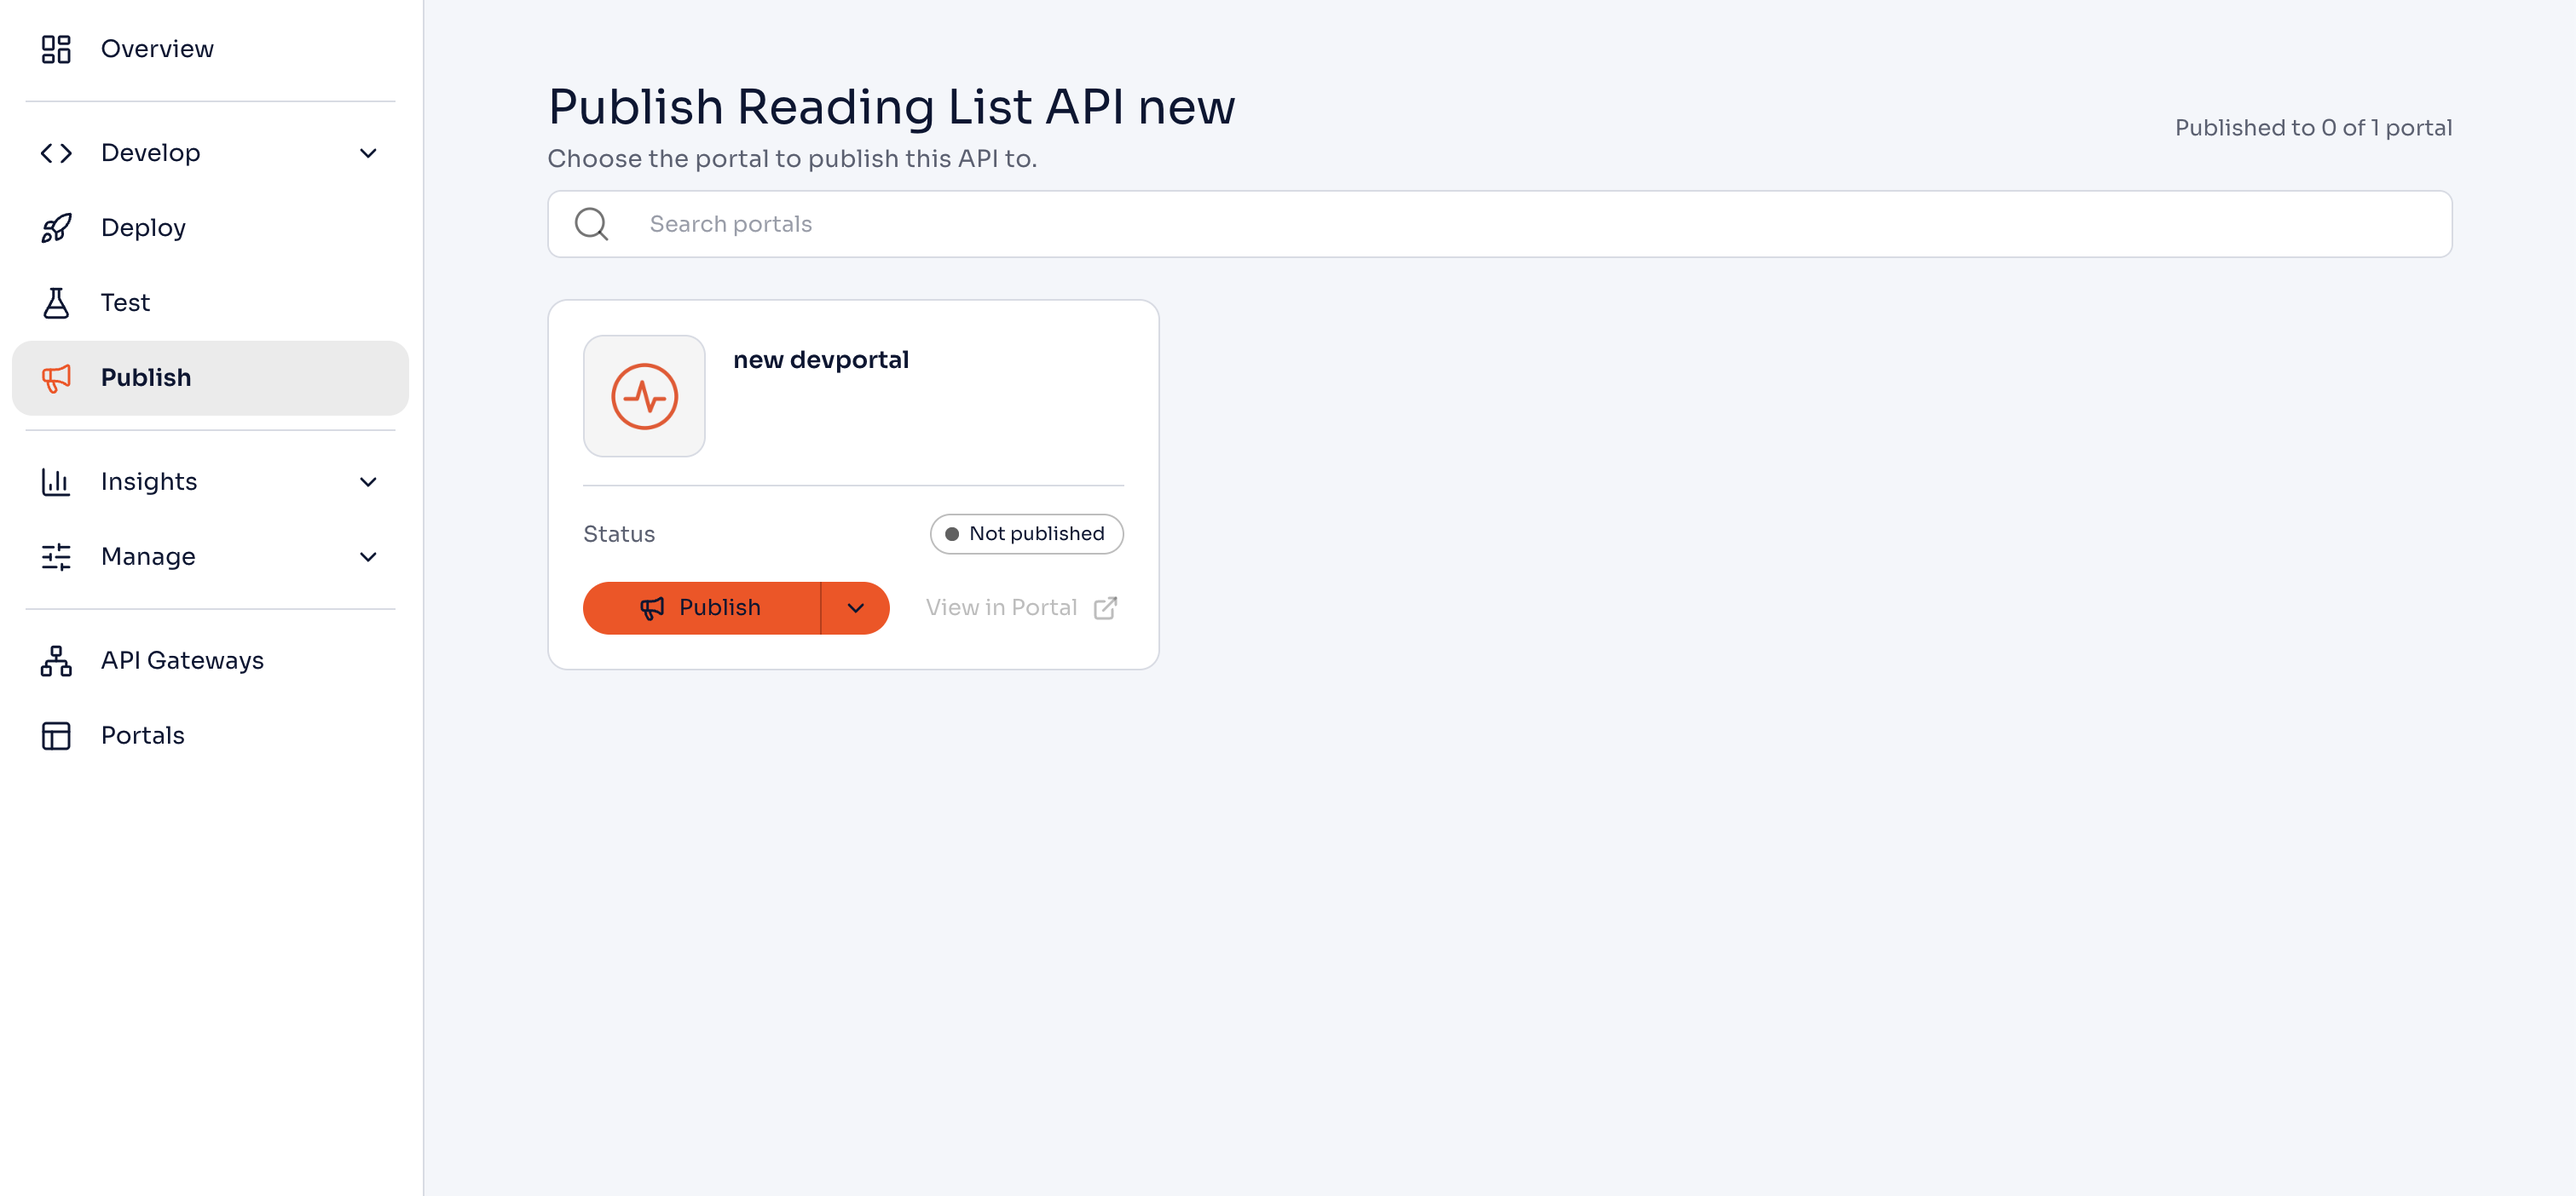
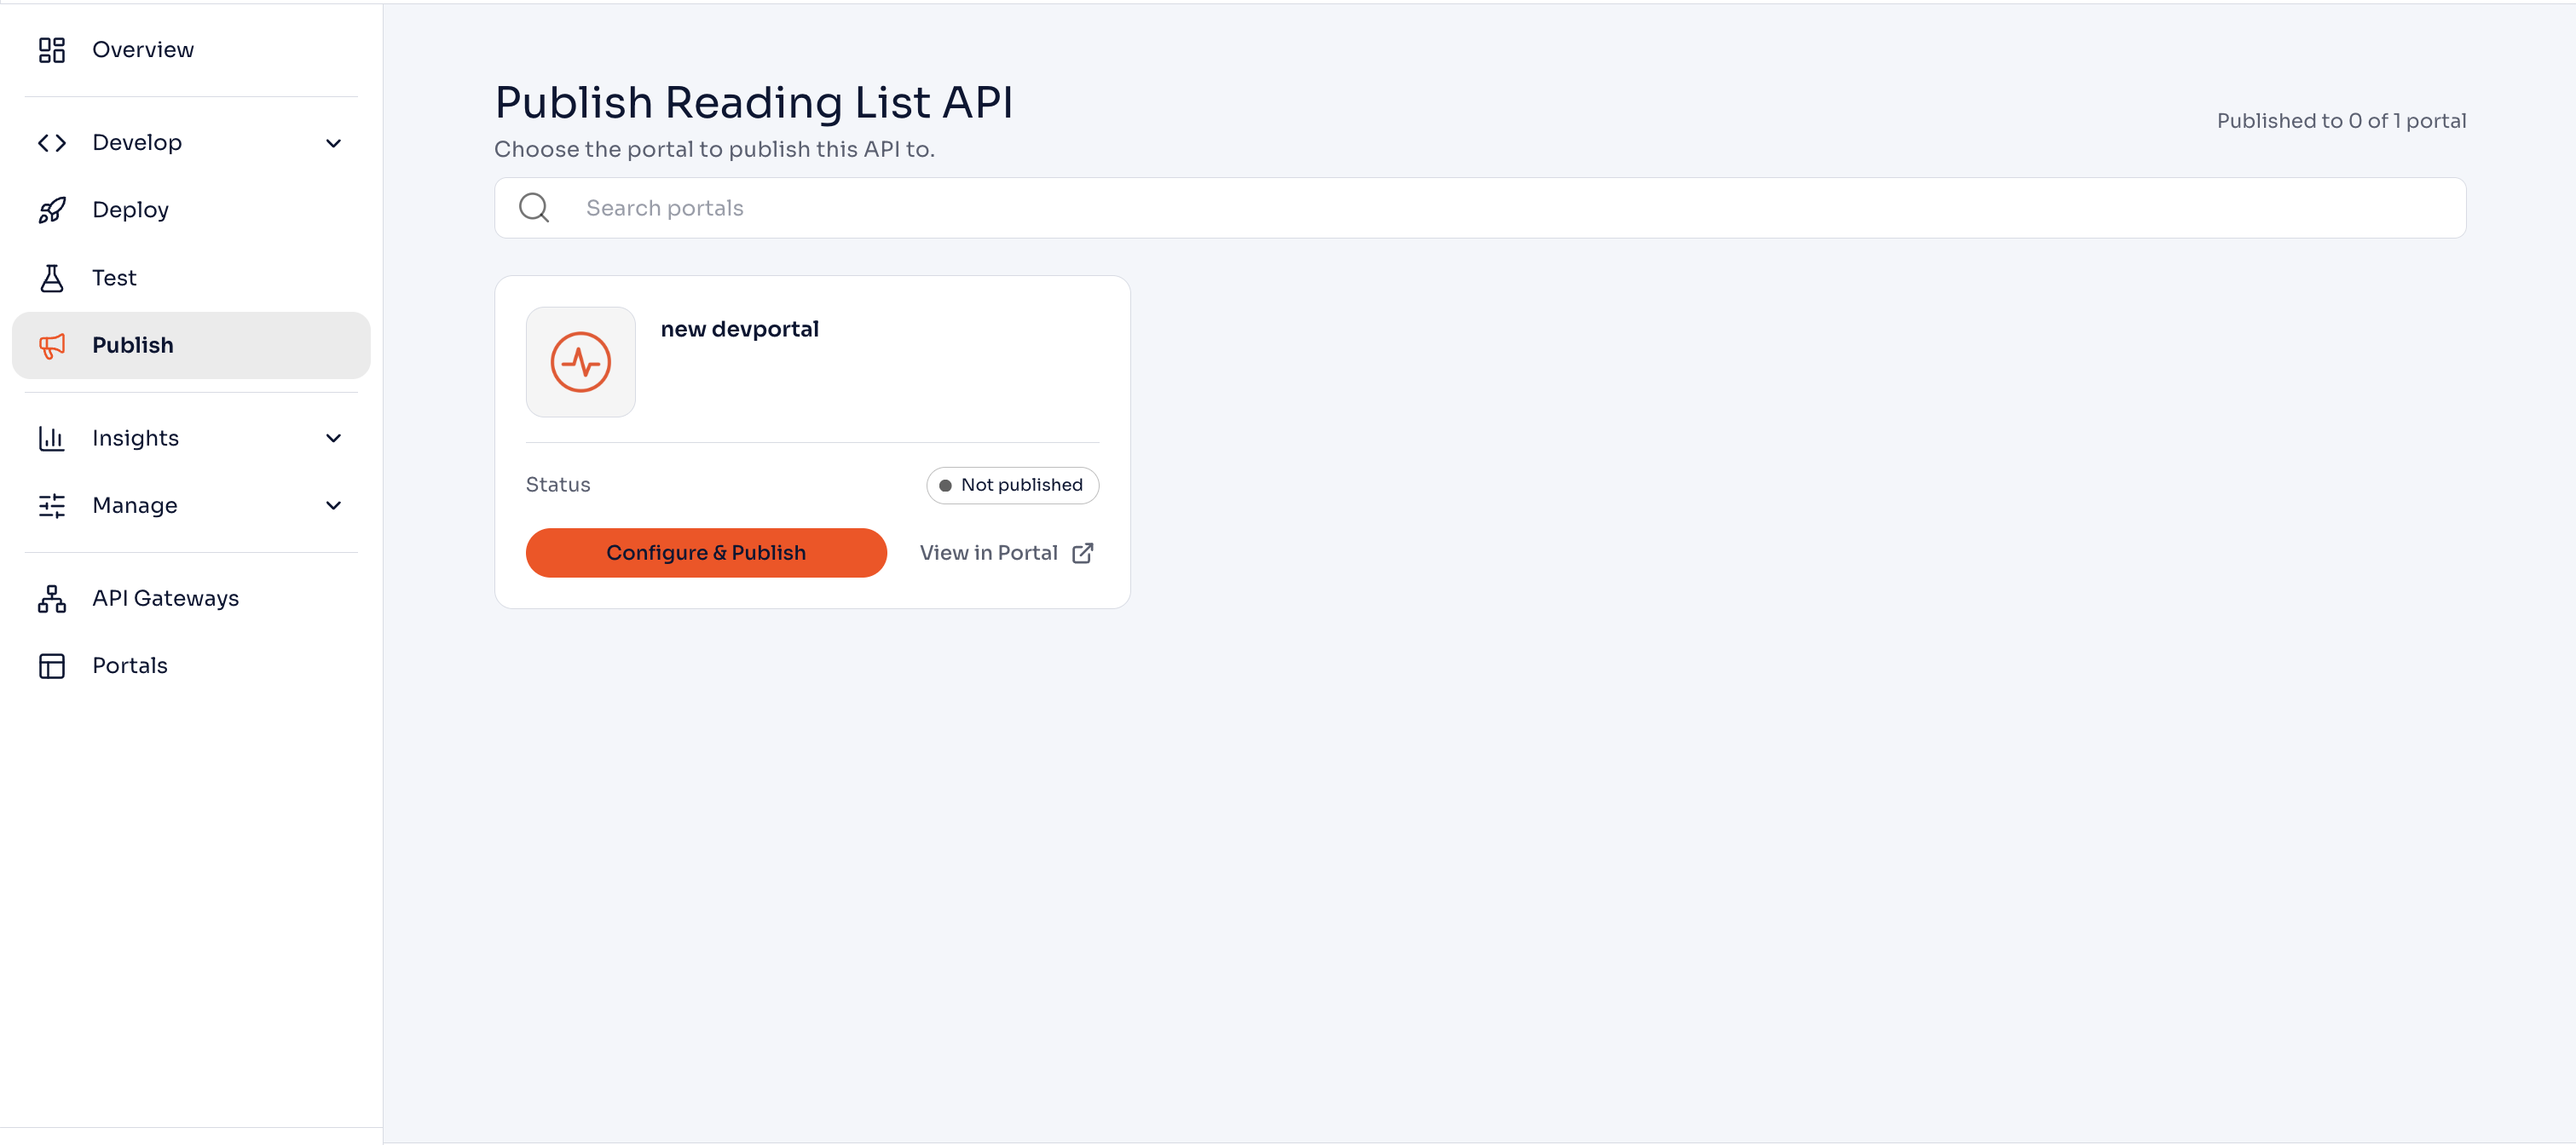
Update publishing docs

diff --git a/docs/api-control-plane/publish-api-proxy/deprecate-or-unpublish.md b/docs/api-control-plane/publish-api-proxy/deprecate-or-unpublish.md
@@ -8,11 +8,15 @@ When an API is replaced by a newer version, or should no longer be offered to co
 | Action | Effect |
 |:-------|:-------|
 | **Deprecate** | Marks the API as deprecated in the portal. Consumers can still see and use the API, but it's marked as deprecated, so that they move to a newer version. |
-| **Unpublish** | Removes the API from the portal. Consumers can no longer discover the API in the portal. |
+| **Unpublish** | Removes the API from the portal. Consumers can no longer discover the API in the portal. You can unpublish an API only when it has no active subscriptions. |
 
 ## Deprecate or Unpublish an API
 
 You can deprecate or unpublish an API only after it is published to the portal.
+
+:::note
+You can't unpublish an API that has active subscriptions. Each consumer who subscribed to the API must unsubscribe first, in the API Portal and AI Hub. See [Manage Subscriptions](../../api-portal/manage-usage/manage-subscriptions.md#view-and-manage-a-subscription). To steer consumers to a newer version while their subscriptions continue, deprecate the API instead.
+:::
 
 1. Sign in to the [API Control Plane Console](https://console.bijira.dev/).
 
@@ -20,12 +24,28 @@ You can deprecate or unpublish an API only after it is published to the portal.
 
 3. In the left navigation menu, click **Publish**.
 
-4. On the portal that the API is published to, click the arrow next to **Publish**, and select **Configure & Publish**.
+4. On the portal that the API is published to, click **Configure & Publish**.
 
-5. In the **Draft** view, click the arrow next to **Republish**, and then click **Deprecate** or **Unpublish**.
+5. Start the action.
+    - In the **Draft** view, click the arrow next to **Republish**, and then click **Deprecate** or **Unpublish**.
 
-    ![Publish page of a published API in the Draft view with the Republish menu open, showing the Deprecate and Unpublish options](/img/cloud/publish-api-proxy/publish-actions.png)
+        ![Publish page of a published API in the Draft view with the Republish menu open, showing the Deprecate and Unpublish options](/img/cloud/publish-api-proxy/publish-actions.png)
 
-    In the **Published** view, you can also click **Unpublish**.
+    - In the **Published** view, click the action button at the bottom of the page, or the arrow next to it, and select **Deprecate** or **Unpublish**. A deprecated API can only be unpublished.
 
-To make an unpublished API available in the portal again, [publish it](./publish-an-api.md) again.
+6. In the dialog that opens, type the name of the API to confirm, and click **Confirm**.
+
+The status of the API on the portal changes, on the **Publish** page:
+
+| Action | Status | In the portal |
+|:-------|:-------|:--------------|
+| **Deprecate** | **Deprecated** | The API stays listed. You can open it with **View in Portal**. |
+| **Unpublish** | **Not published** | The API is removed from the portal, and **View in Portal** is unavailable. |
+
+The count at the top of the **Publish** page, such as **Published to 0 of 1 portal**, counts only the portals where the API is published, not where it is deprecated.
+
+:::note
+You can't undo a deprecation directly. To make a deprecated API a regular published API again, unpublish it, and then publish it again.
+:::
+
+To publish an unpublished API again, click **Configure & Publish** on the portal. The publish page opens in the **Draft** view, with the listing that you prepared before. Review the tabs, and click **Publish**. The status of the API on the portal changes back to **Published**. See [Publish an API](./publish-an-api.md).

diff --git a/docs/api-control-plane/publish-api-proxy/publish-an-api.md b/docs/api-control-plane/publish-api-proxy/publish-an-api.md
@@ -22,19 +22,21 @@ You publish an API to each portal separately, so you can publish the same API to
 
     The page lists the portals in your organization, along with the publishing status of the API in each portal, for example, **Not published**. The top of the page shows the number of portals that the API is published to.
 
-    ![Publish page listing a portal with the publishing status of the API, the Publish button with its options menu, and the View in Portal option](/img/cloud/publish-api-proxy/publish-portals.png)
+    ![Publish page listing a portal with the Not published status of the API, the Configure & Publish button, and View in Portal](/img/cloud/publish-api-proxy/publish-portals.png)
 
     To find a portal, type its name in **Search portals**.
 
-4. On the portal that you want to publish the API to, click **Publish**.
+4. On the portal that you want to publish the API to, click **Configure & Publish**. The publish page of the API opens.
 
-The API is published to the portal with its current details, and its status changes to **Published**. To see the API as consumers see it, click **View in Portal** on the portal. This option is available only after the API is published.
+5. Review the details in the tabs, and click **Publish**. See [Configure and Publish an API](#configure-and-publish-an-api).
+
+The API is published to the portal, and its status changes to **Published**. To see the API as consumers see it, click **View in Portal** on the portal. This option is available only after the API is published.
 
 To review how the API appears in the portal before you publish it, see [Configure and Publish an API](#configure-and-publish-an-api).
 
 ## Configure and Publish an API
 
-1. On the **Publish** page, on the portal that you want to publish the API to, click the arrow next to **Publish**, and select **Configure & Publish**.
+1. On the **Publish** page, on the portal that you want to publish the API to, click **Configure & Publish**.
 
     The publish page of the API opens. Its title shows the API name and the portal you are publishing to, for example, **Publish Reading List API**, followed by the name of the portal. Use the tabs on the page to prepare how the API appears in the portal. See [Customize the Portal Listing](./customize-portal-listing.md).
 

diff --git a/docs/api-control-plane/quickstart-guide.md b/docs/api-control-plane/quickstart-guide.md
@@ -139,15 +139,11 @@ Publishing makes the API available in the API Portal, where consumers can discov
 
     The page lists the portals in the organization and the publishing status of the API in each portal.
 
-3. On the card for the portal you want, click **Publish**.
+3. On the card for the portal you want, click **Configure & Publish**. The publish page of the API opens, with tabs for the API details, specification, subscription plans, documentation, and landing page.
 
-    ![Publish page with a portal card showing the Not published status, the Publish button, and View in Portal](/img/cloud/getting-started/qs-publish-api.png)
+    ![Publish page with a portal card showing the Not published status, the Configure & Publish button, and View in Portal](/img/cloud/getting-started/qs-publish-api.png)
 
-    The console publishes the API to that portal with all its documents attached and no subscription plan selected.
-
-    :::tip
-    To review the API details, specification, subscription plans, documentation, and landing page before you publish, click the arrow next to **Publish** and select **Configure & Publish**. Then click **Configure & Publish** to open the publish page.
-    :::
+4. Review the tabs, and click **Publish**.
 
 The status of the API in that portal changes to **Published**. To open the portal listing, click **View in Portal**. For more on publishing, see [Publish an API](./publish-api-proxy/publish-an-api.md).
 

diff --git a/docs/api-control-plane/publish-api-proxy/customize-portal-listing.md b/docs/api-control-plane/publish-api-proxy/customize-portal-listing.md
@@ -5,7 +5,7 @@ description: "Set the details, specification, subscription plans, documentation,
 
 When you publish an API to a portal, you prepare a listing for it, the information that consumers see in that portal. You prepare the listing in the tabs of the API's publish page for that portal. Each portal has its own listing, so you can present the same API differently in different portals.
 
-To open the page, in the left navigation menu, click **Publish**. On the portal, click the arrow next to **Publish**, and select **Configure & Publish**. See [Publish an API](./publish-an-api.md).
+To open the page, in the left navigation menu, click **Publish**. On the portal, click **Configure & Publish**. See [Publish an API](./publish-an-api.md).
 
 | Tab | Use it to |
 |:----|:----------|

diff --git a/docs/api-control-plane/publish-api-proxy/subscription-plans-and-billing.md b/docs/api-control-plane/publish-api-proxy/subscription-plans-and-billing.md
@@ -17,7 +17,7 @@ You assign subscription plans to an API separately for each portal that you publ
 
 3. In the left navigation menu, click **Publish**.
 
-4. On the portal that you want to publish the API to, click the arrow next to **Publish**, and select **Configure & Publish**.
+4. On the portal that you want to publish the API to, click **Configure & Publish**.
 
 5. Click the **Subscription Plans** tab. The tab lists the subscription plans of your organization, with the rate limit of each plan.
 

diff --git a/docs/api-control-plane/publish-api-proxy/make-an-api-ai-ready.md b/docs/api-control-plane/publish-api-proxy/make-an-api-ai-ready.md
@@ -57,7 +57,7 @@ To control whether AI agents can discover an API, follow the steps given below.
 
 3. In the left navigation menu, click **Publish**.
 
-4. On the portal, click the arrow next to **Publish**, and select **Configure & Publish**.
+4. On the portal, click **Configure & Publish**.
 
 5. In the **Draft** view, on the **API Details** tab, turn the **Make this API discoverable by AI agents** toggle on or off.
 
